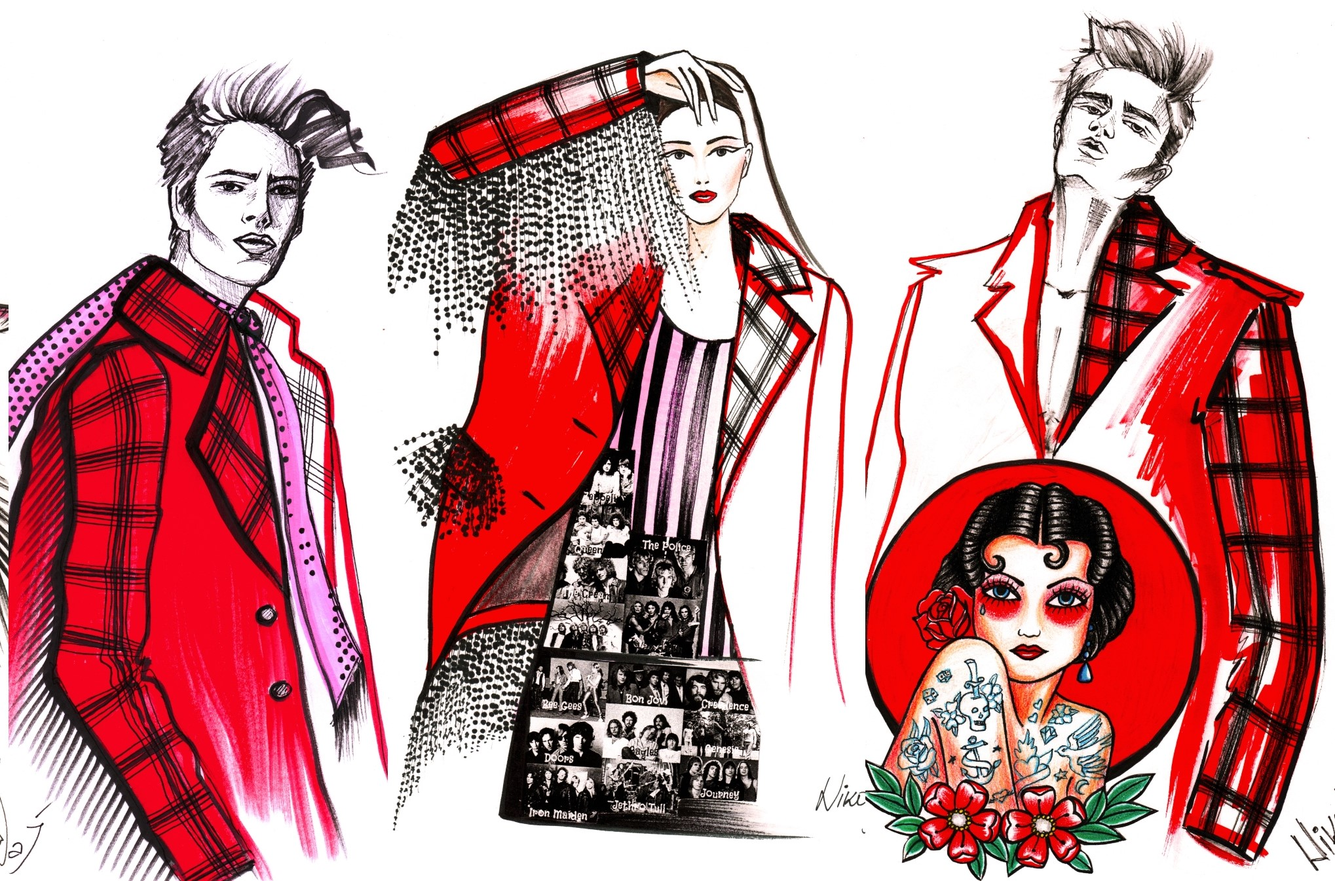
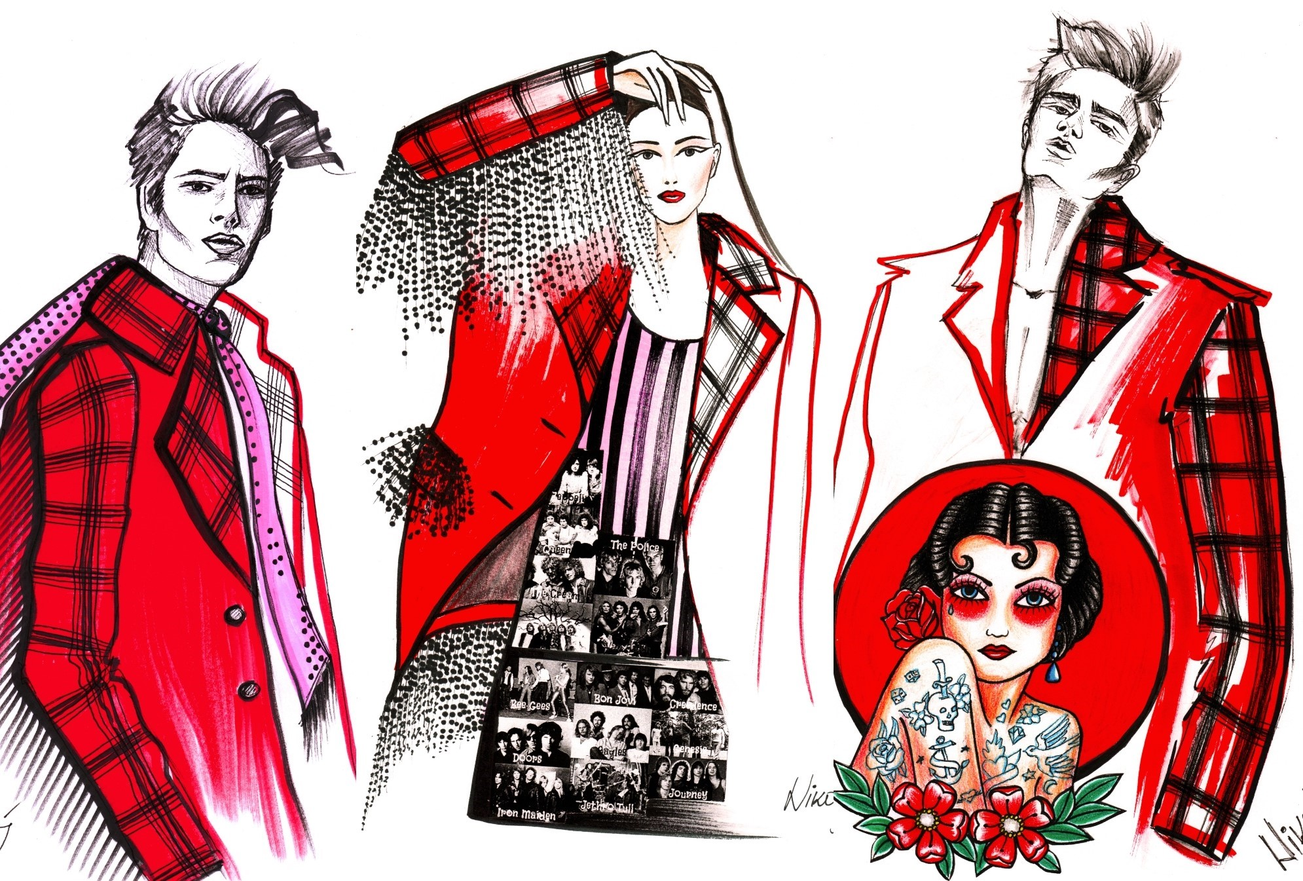
updated

diff --git a/about.html b/about.html
@@ -126,7 +126,7 @@ Adobe Illustrator</p>
           Attentiveness  </br>
           Prioritizing </br>
           Able to work long hours </br>
-          Easy and wuick thinker  </br>
+          Easy and quick thinker  </br>
           Highly motivated  </br>
           Neat and well-organized  </br>
           Ability to Work Under Pressure </br>

diff --git a/css/style.css b/css/style.css
@@ -263,8 +263,8 @@ a {
     
     .img-fluid-1{
 
-      height: 280px;
-      width: 490px;
+      height: 260px;
+      width: 510px;
     }
 .play-single-big {
   width: 90px;
